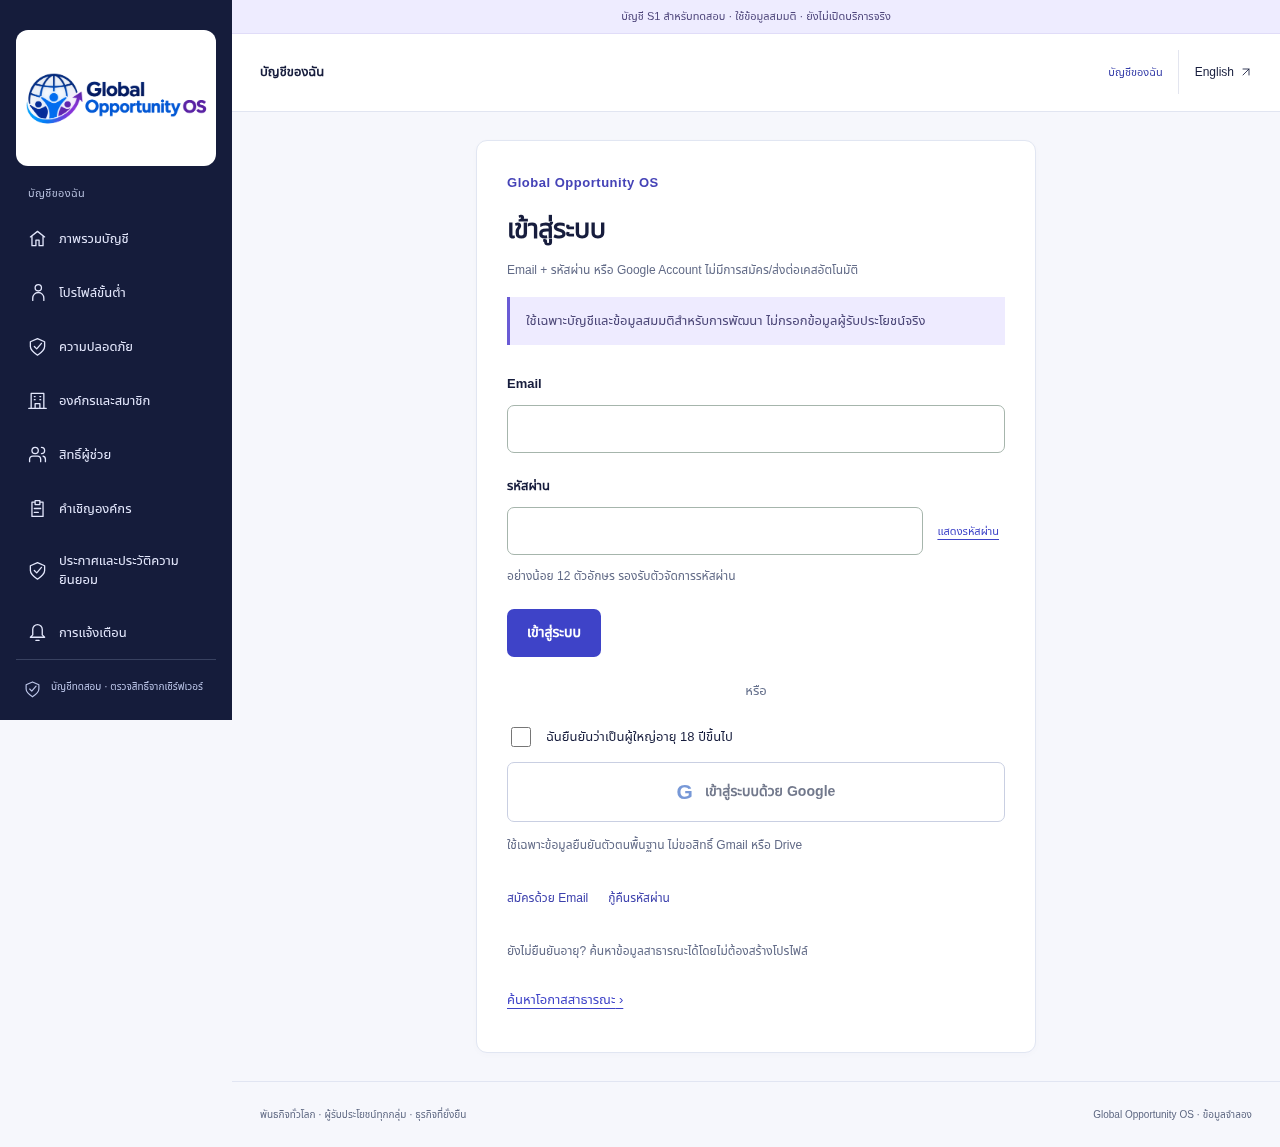
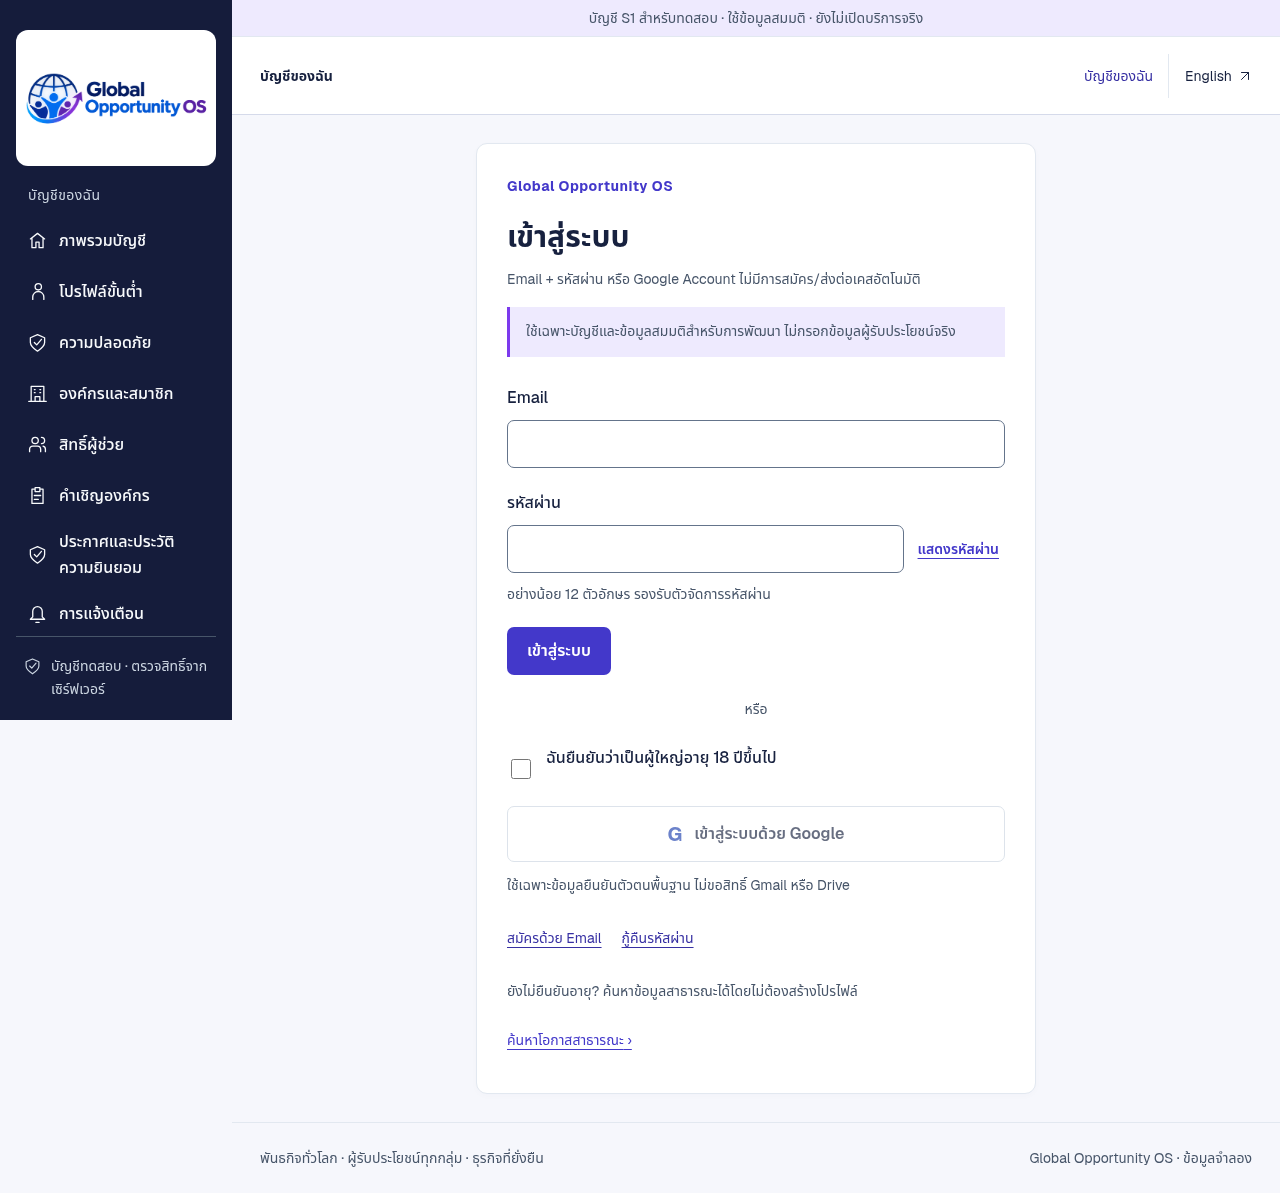
บันทึกผล S3 UX และ recovery drill พร้อมยืนยัน completion ในการทดสอบ

diff --git a/tests/s3/workflow.spec.ts b/tests/s3/workflow.spec.ts
@@ -54,7 +54,7 @@ test.beforeAll(async ({ browser }) => {
     await p.locator("#auth-email").fill(a.email);
     await p.locator("#auth-password").fill(a.password);
     await p.locator("form button[type=submit]").click();
-    await expect(p).toHaveURL(/\/en\/account$/);
+    await expect(p).toHaveURL(/\/en\/account$/, { timeout: 20000 });
     if (a.factorId) {
       const r = await p.request.post("/api/auth/mfa-verify", {
         headers: { Origin: origin },
@@ -124,7 +124,9 @@ test("Next navigation and a native GET filter both show a spinner until their de
   await nav.click({ noWaitAfter: true });
   await expect(p.locator(".activity-spinner").first()).toBeVisible();
   release();
-  await expect(p).toHaveURL(/\/en\/workflow\/applications$/);
+  await expect(p).toHaveURL(/\/en\/workflow\/applications$/, {
+    timeout: 20000,
+  });
   await expect(p.locator("main h1")).toHaveText(t.applications);
   await busyDone(p);
   await p.unroute("**/en/workflow/applications**");

diff --git a/docs/S3_REPORT_TH.md b/docs/S3_REPORT_TH.md
@@ -18,8 +18,10 @@ S1 hosted ยัง blocked; S2/S3 อยู่ local/feature PR ไม่ถื
 
 ## PR ที่ต่อกัน
 
-[#6 ฐานข้อมูล/API/สิทธิ์](https://github.com/geeravut-lab/global-opportunity-os/pull/6) → [#7 typography/loading](https://github.com/geeravut-lab/global-opportunity-os/pull/7) → หน้าจอ/tests/รายงาน S3 (กำลังจัดชุดสุดท้าย)
-ต่อจาก S2 #3–5 ยังไม่ merge/rollout; CI/Preview ที่ยังรันไม่ถือว่าผ่านโดยอัตโนมัติ
+[#6 ฐานข้อมูล/API/สิทธิ์](https://github.com/geeravut-lab/global-opportunity-os/pull/6) → [#7 typography/loading](https://github.com/geeravut-lab/global-opportunity-os/pull/7) → [#8 หน้าจอ/tests/รายงาน S3](https://github.com/geeravut-lab/global-opportunity-os/pull/8)
+ต่อจาก S2 #3–5 ยังไม่ merge/rollout; CI ชุดโค้ดรวม `443167c` และฐาน `6ec1a35`: check+s1-local ผ่านทั้ง push/pull_request
+Vercel Preview ของ UX `9227f0c` ผ่าน; การอัปเดตหลังชุดโค้ดรวมเป็น tests/ภาพ/เอกสารเท่านั้น ไม่มี runtime code เปลี่ยน
+ดู Checks ของ commitล่าสุดในแต่ละ PR ก่อน merge; ผลCIของcommitที่ระบุไม่ใช่ hosted UAT
 
 ## ไฟล์และสถาปัตยกรรม
 
@@ -48,7 +50,12 @@ S1 hosted ยัง blocked; S2/S3 อยู่ local/feature PR ไม่ถื
 | `npm run test:s3` | 12/12 ผ่าน ครบ preview/submit/assignment/notes/reassign/close/dirty settings/สองภาษา/automation/revoke-sharing รวม spinner ที่หน่วง API/route/search และกดซ้ำ |
 | `npm run test:backup-restore` | ผ่าน74วินาที, fingerprint54ตาราง/120 RLS policies/ACL/binary asset/Auth password/MFA, decrypt S3 package+key และ idempotent withdrawal/session replay ก่อนเปิด target573xx; targetหยุดแล้ว |
 
-S2/Auth regression รอบสุดท้ายยังรันอยู่; เพิ่ม assertions lost-lease reclaim/stale ack และ manual-retry authorization/budget แล้ว รอ integration รอบยืนยันก่อนสรุปผล
+integration77/77 รอบยืนยันรวม lost-lease reclaim/stale ack และ manual-retry authorization/budget ผ่านแล้ว
+Auth28กรณีตรวจครบ:27ผ่านชุดเต็ม + profileผ่านรอบยืนยันด้วย `playwright test --config playwright.auth.config.ts --grep "profile creation/edit"`; ยังคง version/escaped-text/conflict assertions ครบ
+`npm run test:s2` ผ่าน13/13 (รวม20หน้า/ภาษาของ axe/reflow และ two-window/live pause)
+spinner regression ล่าสุดผ่าน2/2 หลังใช้ pending-state ร่วมกัน; ทดสอบ login/navigation โดยรอ completion จริงสูงสุด20วินาที ไม่มี timer ปิดสถานะรอในแอป
+ชุด Auth เดิมรอบแรก27/28 ส่วน profile ผ่านหลังเพิ่มการรอ spinner; คำสั่งรันทวนข้างต้นเป็นผลที่ใช้ปิดกรณีนั้น ไม่กล่าวว่ารอบแรกผ่าน28/28
+ฟอนต์ตรวจ FontFace.load ได้จริง (Geist1face/Noto Sans Thai2faces สถานะloaded) และ HTTP200ทั้ง3ไฟล์จาก local origin
 ผลผ่านข้างต้นเป็น local/synthetic เท่านั้น ไม่ใช้แทน hosted readiness
 
 พบ regression audit export timeout บนประวัติ local ที่สะสมมาก จึงเพิ่ม migration0031:

diff --git a/docs/TYPOGRAPHY_LOADING_REPORT_TH.md b/docs/TYPOGRAPHY_LOADING_REPORT_TH.md
@@ -35,7 +35,8 @@ unit คำนวณ contrast ข้อความ4.5และ focus/field boun
 ## หลักฐานและข้อจำกัด
 
 ผลสุดท้ายของ build/unit/browser/axe/reflow และ spinner ที่หน่วง API/navigation อยู่ใน [รายงาน S3](S3_REPORT_TH.md)
-ก่อนผลชุดสุดท้าย ห้ามใช้เอกสารนี้กล่าวว่า hosted ผ่าน ทุกการทดสอบในงานนี้ใช้ local/synthetic data
+ชุดรวมผ่าน unit81/integration77/S3 UI12/S2 UI13/validation10 และ baseline E2E25/axe24 ตามรายงาน; Auth27จากชุดเต็ม+profile1จากรอบยืนยัน
+ฟอนต์โหลดจริงผ่าน FontFace.load และ HTTP200; ทุกการทดสอบใช้ local/synthetic data ส่วนCIเป็นอีก target แยกจาก hosted UAT
 ยังต้องทดสอบ Safari/iOS/Android จริงและ NVDA/VoiceOver กับเจ้าของ; automated checks ไม่ใช่ใบรับรอง WCAG
 
 ขั้นถัดไป: review PR ที่ต่อจาก S2 → ตรวจ rollout/worker/notices → hosted UAT และ S1 network/recovery ตาม [งานถัดไป](NEXT_STEPS.md)
